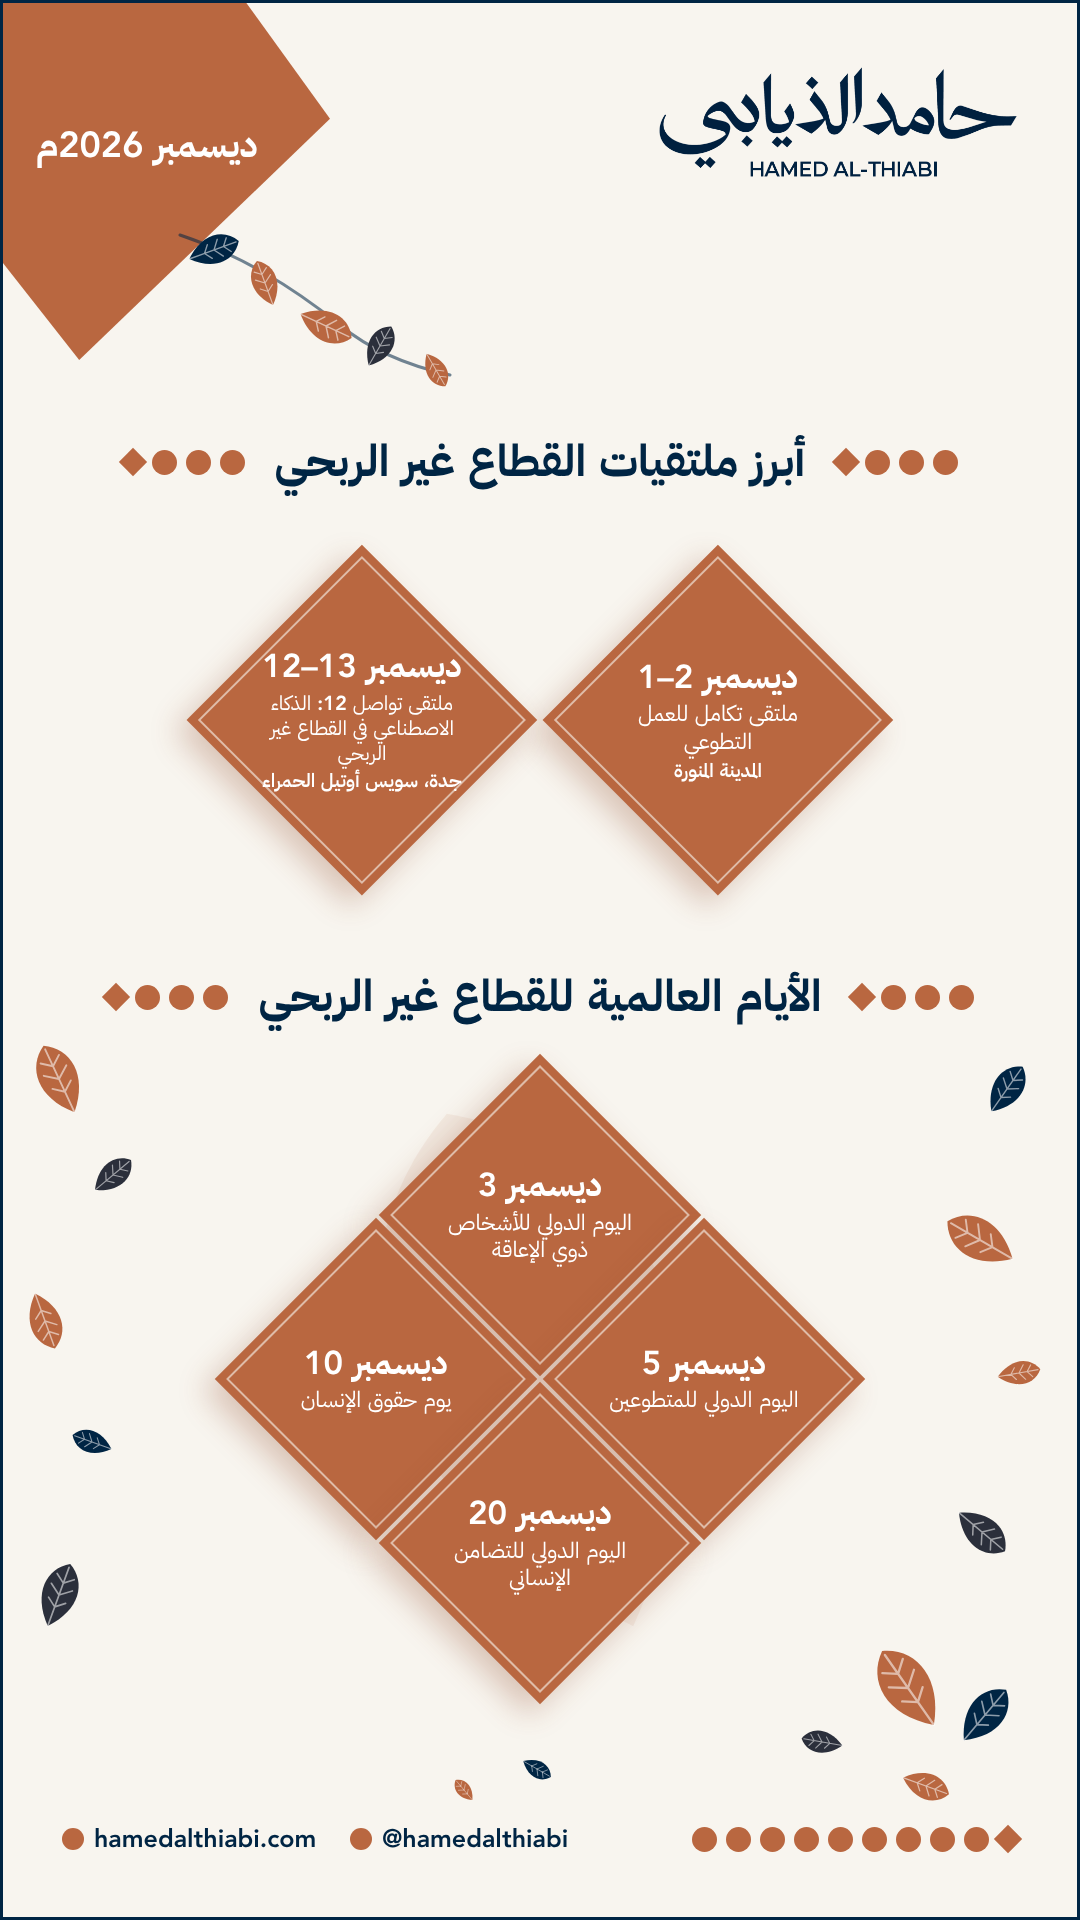
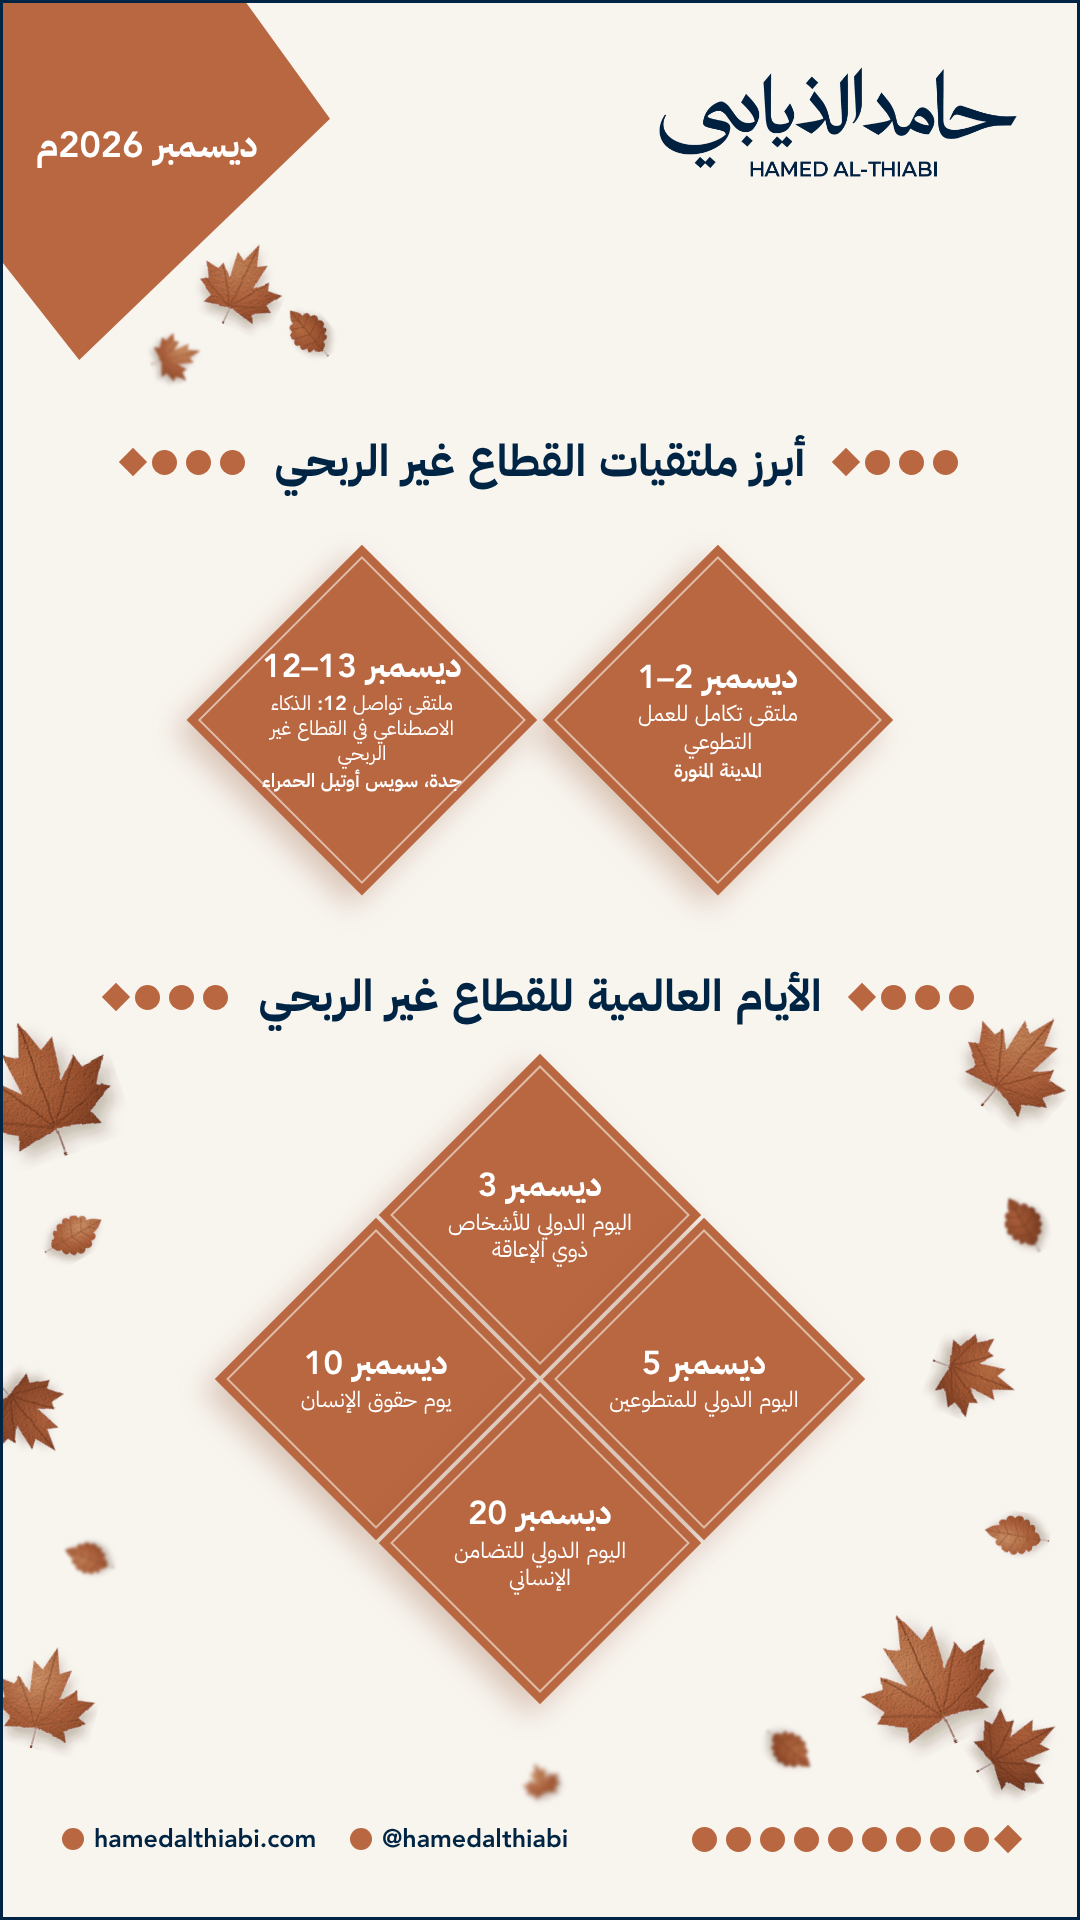
تقويم ديسمبر: أوراق خريف واقعية بدرجات النحاسي

diff --git a/agent/tools/month_calendar_tpl.py b/agent/tools/month_calendar_tpl.py
@@ -14,25 +14,50 @@ NAVY, COP = '#002544', '#b96740'
 DS = 322  # قطر المعيّن
 
 
-def leaf(x, y, s, rot, col, op=1):
-    return (f'<svg class="lf" style="left:{x}px;top:{y}px;width:{s}px;height:{s}px;transform:rotate({rot}deg);opacity:{op}" viewBox="0 0 100 100">'
-            f'<path d="M50 3 C80 20 86 60 50 97 C14 60 20 20 50 3Z" fill="{col}"/>'
-            f'<path d="M50 8 L50 97 M50 32 L63 22 M50 32 L37 22 M50 50 L66 38 M50 50 L34 38 M50 68 L63 58 M50 68 L37 58" stroke="#fff" stroke-opacity=".55" stroke-width="2.4" fill="none" stroke-linecap="round"/></svg>')
+MAPLE = ('M50 97 L50 80 C41 83 31 85 21 87 L25 77 L7 67 L15 62 L5 45 L20 47 L23 38 L36 51 L32 22 L42 28 L50 5 '
+         'L58 28 L68 22 L64 51 L77 38 L80 47 L95 45 L85 62 L93 67 L75 77 L79 87 C69 85 59 83 50 80 Z')
+OAK = ('M50 97 L50 86 C44 86 40 82 41 77 C34 79 29 75 32 69 C25 69 22 63 27 58 C20 56 20 49 26 46 C21 41 24 34 31 34 '
+       'C29 27 34 22 40 25 C40 17 46 12 50 6 C54 12 60 17 60 25 C66 22 71 27 69 34 C76 34 79 41 74 46 C80 49 80 56 73 58 '
+       'C78 63 75 69 68 69 C71 75 66 79 59 77 C60 82 56 86 50 86 Z')
+SHADES = [('#cf8a5c', '#b96740', '#8a4526'), ('#c47548', '#a85a35', '#7a3b20'), ('#d99a6c', '#b96740', '#94502c'), ('#b96740', '#9a5130', '#6e341c')]
+DEFS = (
+    '<svg width="0" height="0" style="position:absolute"><defs>'
+    '<filter id="tex" x="-10%" y="-10%" width="120%" height="120%">'
+    '<feTurbulence type="fractalNoise" baseFrequency="1.6" numOctaves="3" seed="4" result="n"/>'
+    '<feDiffuseLighting in="n" surfaceScale="1.2" lighting-color="#fff" result="l"><feDistantLight azimuth="235" elevation="55"/></feDiffuseLighting>'
+    '<feComposite in="l" in2="SourceGraphic" operator="in" result="li"/>'
+    '<feBlend in="SourceGraphic" in2="li" mode="multiply" result="m"/>'
+    '<feTurbulence type="fractalNoise" baseFrequency=".035" numOctaves="2" seed="9" result="w"/>'
+    '<feDisplacementMap in="m" in2="w" scale="3.5" xChannelSelector="R" yChannelSelector="G" result="d"/>'
+    '<feDropShadow dx="3" dy="7" stdDeviation="5" flood-color="#3a1f10" flood-opacity=".28"/></filter>'
+    + ''.join(f'<radialGradient id="g{i}" cx="38%" cy="35%" r="75%"><stop offset="0" stop-color="{a}"/><stop offset=".55" stop-color="{b}"/><stop offset="1" stop-color="{c}"/></radialGradient>' for i, (a, b, c) in enumerate(SHADES))
+    + '</defs></svg>')
+
+
+def leaf(x, y, s, rot, k, kind='maple', blur=0):
+    path = MAPLE if kind == 'maple' else OAK
+    a, b, c = SHADES[k % len(SHADES)]
+    veins = ('M50 96 L50 9 M50 79 L23 40 M50 79 L77 40 M50 79 L12 64 M50 79 L88 64 M36 60 L30 50 M64 60 L70 50' if kind == 'maple'
+             else 'M50 96 L50 9 M50 70 L33 63 M50 70 L67 63 M50 55 L29 46 M50 55 L71 46 M50 40 L34 31 M50 40 L66 31 M50 27 L43 20 M50 27 L57 20')
+    bl = f';filter:blur({blur}px)' if blur else ''
+    return (f'<svg class="lf" style="left:{x}px;top:{y}px;width:{s}px;height:{s}px;transform:rotate({rot}deg){bl}" viewBox="0 0 100 100">'
+            f'<g filter="url(#tex)"><path d="{path}" fill="url(#g{k % len(SHADES)})"/>'
+            f'<path d="{veins}" stroke="{c}" stroke-opacity=".75" stroke-width="1.3" fill="none" stroke-linecap="round"/>'
+            f'<path d="{veins}" stroke="{a}" stroke-opacity=".5" stroke-width=".5" fill="none" transform="translate(.7 .3)"/>'
+            f'<path d="M50 97 L50 100" stroke="{c}" stroke-width="2"/></g></svg>')
 
 
 def touches(kind):
-    # لمسة نوفمبر: غصن خريفي يتدلّى من مثلث الشهر، وأوراق تتساقط على الهامشين حتى التذييل
+    # لمسة نوفمبر: أوراق خريف واقعية بدرجات النحاسي من الهوية، على الهوامش فقط
     if kind != 'autumn': return ''
-    C1, C2, C3, C4 = COP, NAVY, COP, '#2b2f3b'  # ألوان الهوية فقط: نحاسي وكحلي وفحمي
-    br = ('<svg class="lf" style="left:170px;top:225px;width:300px;height:200px" viewBox="0 0 300 200">'
-          '<path d="M10 10 C70 30 120 60 170 100 C200 125 235 140 280 150" stroke="#002544" stroke-width="3" fill="none" stroke-linecap="round" opacity=".55"/></svg>')
-    L = [(186, 222, 56, 70, C2), (240, 258, 50, -20, C1), (296, 296, 60, 115, C3), (356, 322, 48, 30, C4), (416, 350, 40, 150, C1),
-         (20, 1040, 78, -25, C1), (88, 1150, 50, 50, C4), (14, 1290, 62, 160, C3), (70, 1420, 44, -70, C2), (24, 1560, 70, 20, C4),
-         (978, 1060, 58, 35, C2), (940, 1200, 80, -60, C1), (996, 1350, 46, 80, C3), (950, 1500, 64, 130, C4),
-         (860, 1640, 96, -35, C1), (950, 1680, 70, 40, C2), (900, 1760, 52, 110, C3), (800, 1720, 44, -80, C4),
-         (520, 1752, 34, 120, C2), (450, 1776, 28, -40, C1)]
-    wm = '<svg class="wm" style="left:250px;top:1080px;width:580px;height:580px;transform:rotate(-20deg)" viewBox="0 0 100 100"><path d="M50 3 C80 20 86 60 50 97 C14 60 20 20 50 3Z" fill="#b96740"/></svg>'
-    return wm + br + ''.join(leaf(x, y, sz, r, c) for x, y, sz, r, c in L)
+    L = [  # x, y, size, rot, shade, kind, blur
+        (196, 236, 92, 25, 0, 'maple', 0), (276, 300, 64, -40, 1, 'oak', 0), (150, 330, 54, 75, 2, 'maple', 1.2),
+        (-34, 1010, 150, -20, 1, 'maple', 0), (40, 1200, 70, 60, 2, 'oak', 0), (-20, 1370, 96, 140, 3, 'maple', 0),
+        (60, 1530, 56, -70, 0, 'oak', 1.5), (-10, 1640, 110, 15, 2, 'maple', 0),
+        (960, 1000, 120, 40, 0, 'maple', 0), (990, 1190, 66, -30, 3, 'oak', 1), (930, 1330, 92, 110, 1, 'maple', 0),
+        (980, 1500, 70, -80, 2, 'oak', 0), (850, 1600, 150, -25, 0, 'maple', 0), (970, 1700, 96, 60, 3, 'maple', 0),
+        (760, 1720, 60, 130, 1, 'oak', 1.5), (520, 1760, 42, -20, 2, 'maple', 2)]
+    return DEFS + ''.join(leaf(*l) for l in L)
 
 
 def dots(n=4):
